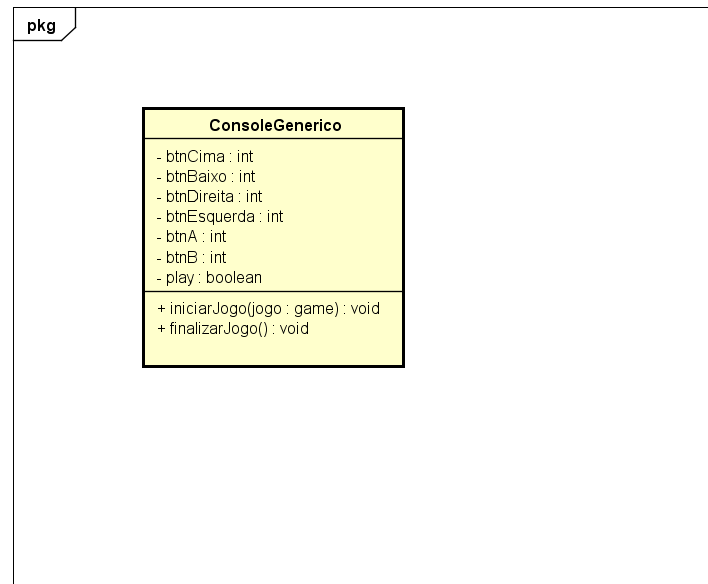
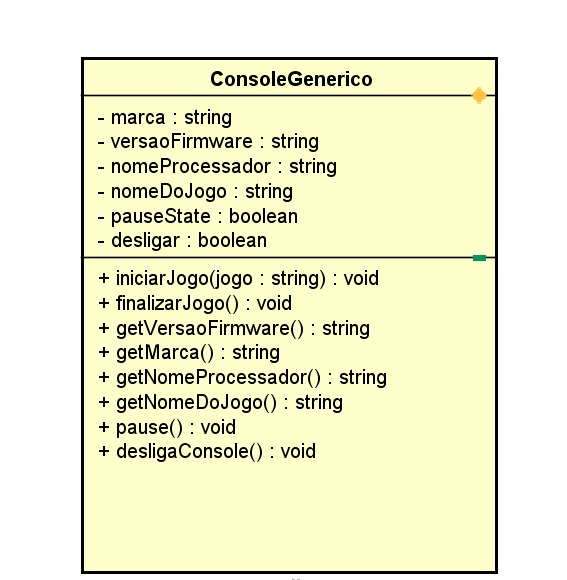
.

diff --git a/consoleGenerico.h b/consoleGenerico.h
@@ -5,21 +5,20 @@ class ConsoleGenerico{
 	public:
 		void iniciarJogo();
 		void finalizarJogo();
-		string getVersao();
+		string getVersaoFirmware();
 		string getMarca();
+		string getNomeDoProcessador();
 		string getNomeDoJogo();
-	private:
-		int btnCima;
-		int btnBaixo;
-		int btnDireita;
-		int btnEsquerda;
-		int btnA;
-		int btnB;
-		string versao;
-		string marca;
-		string processador;
-		string memoria;
-		string nomeDojogo;
+		void pause();
+		void desligaConsole();
 		
+	private:
+	
+		string versaoFirmware;
+		string marcaConsole;
+		string nomeProcessador;
+		string nomeDojogo;
+		boolean pauseState;
+		boolean desligar;
 		
 };
